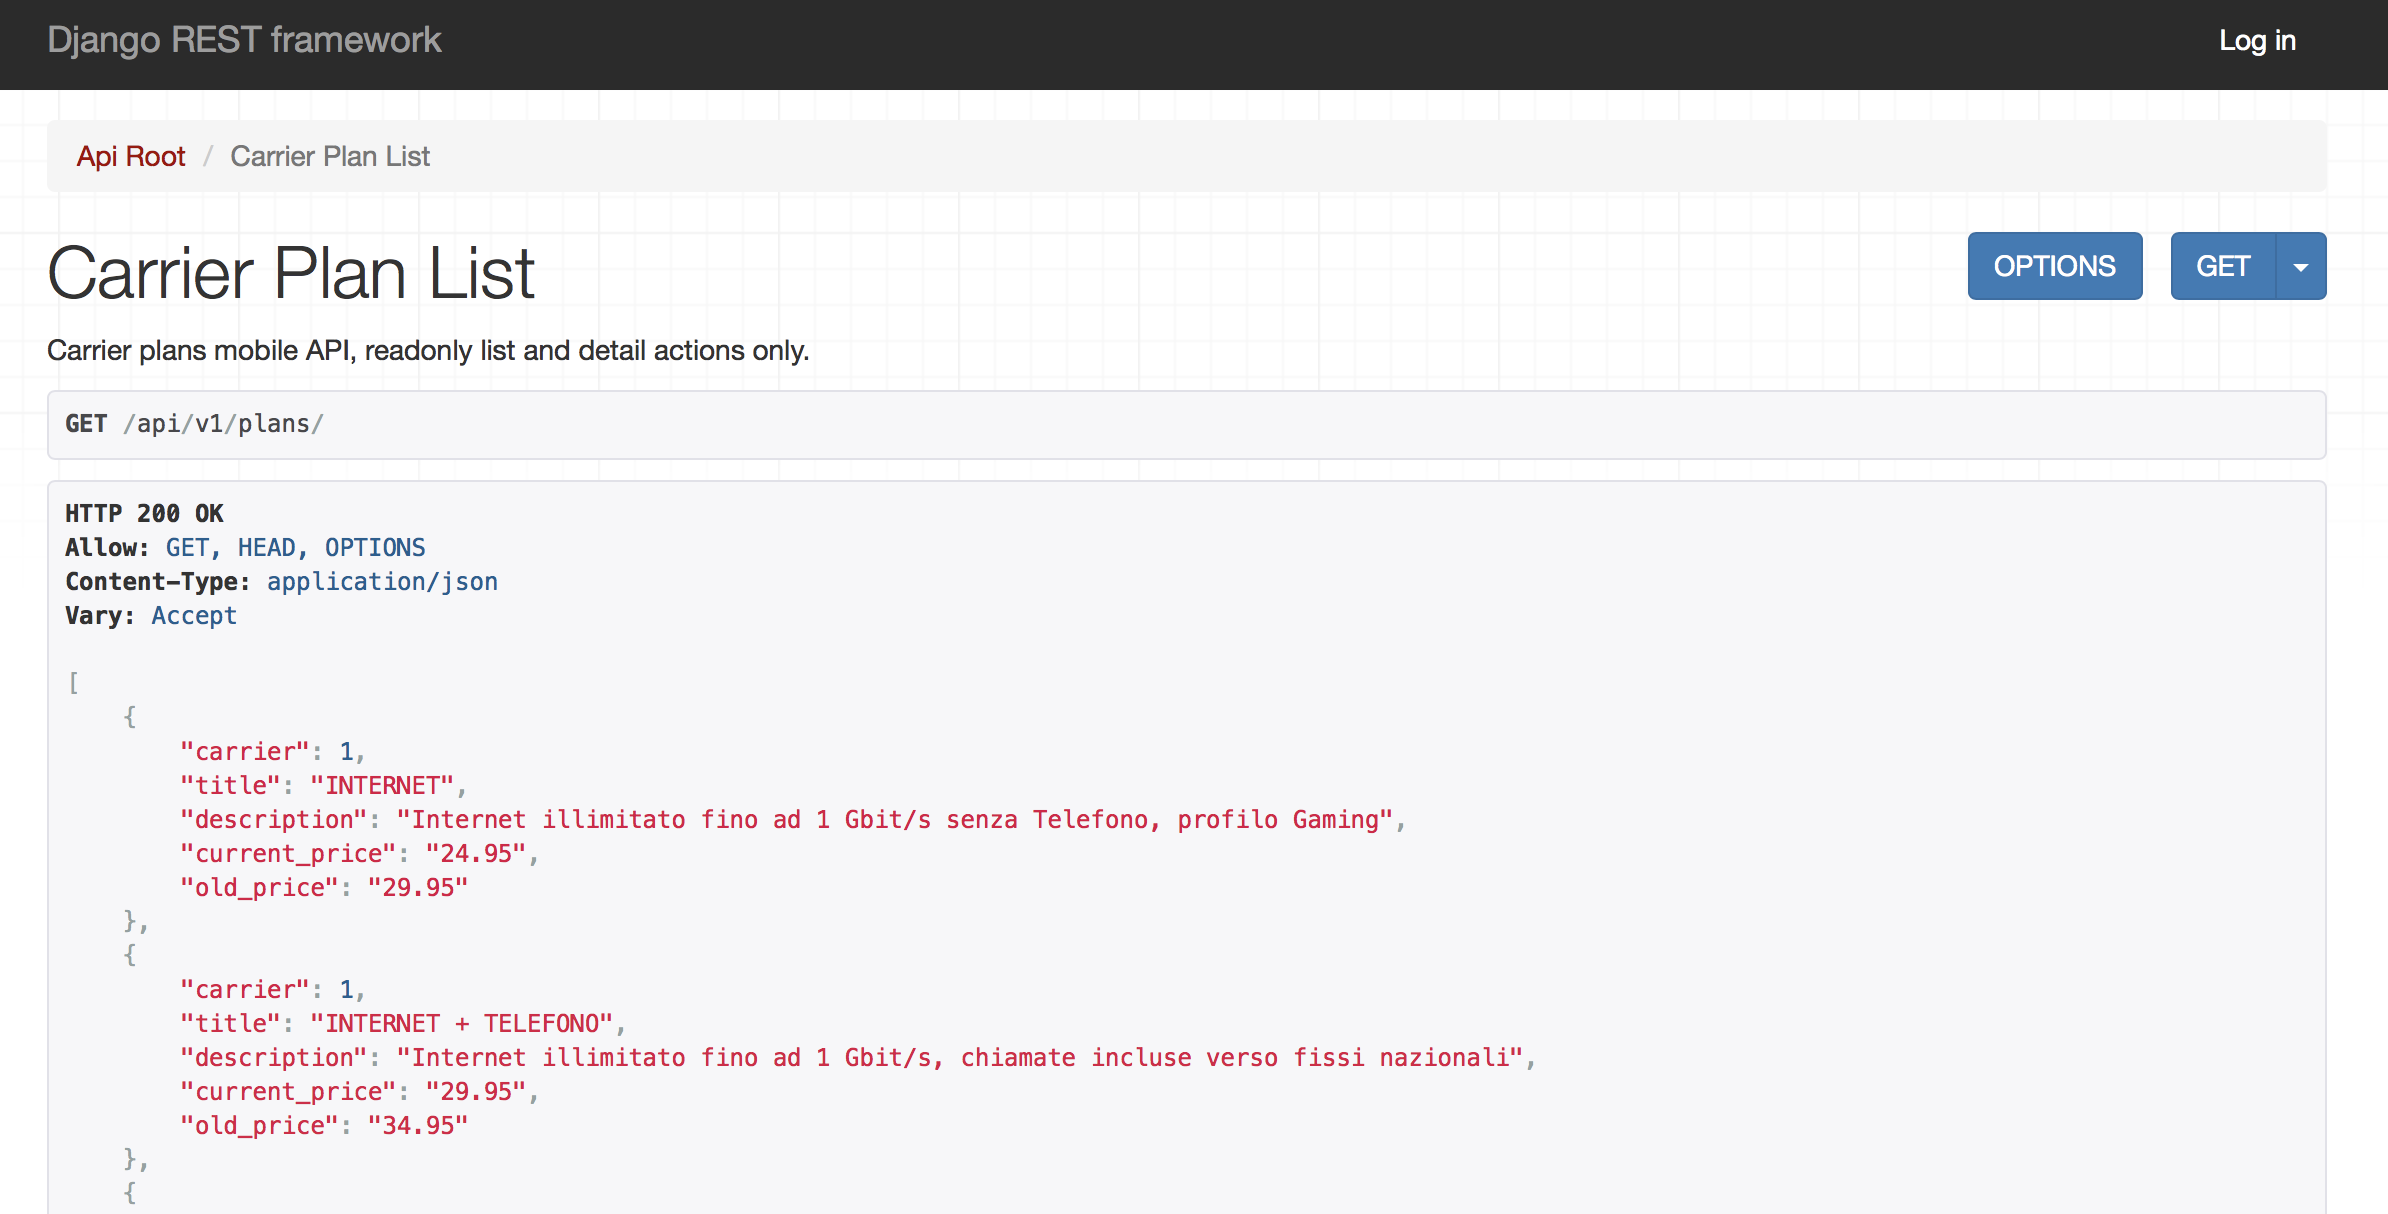
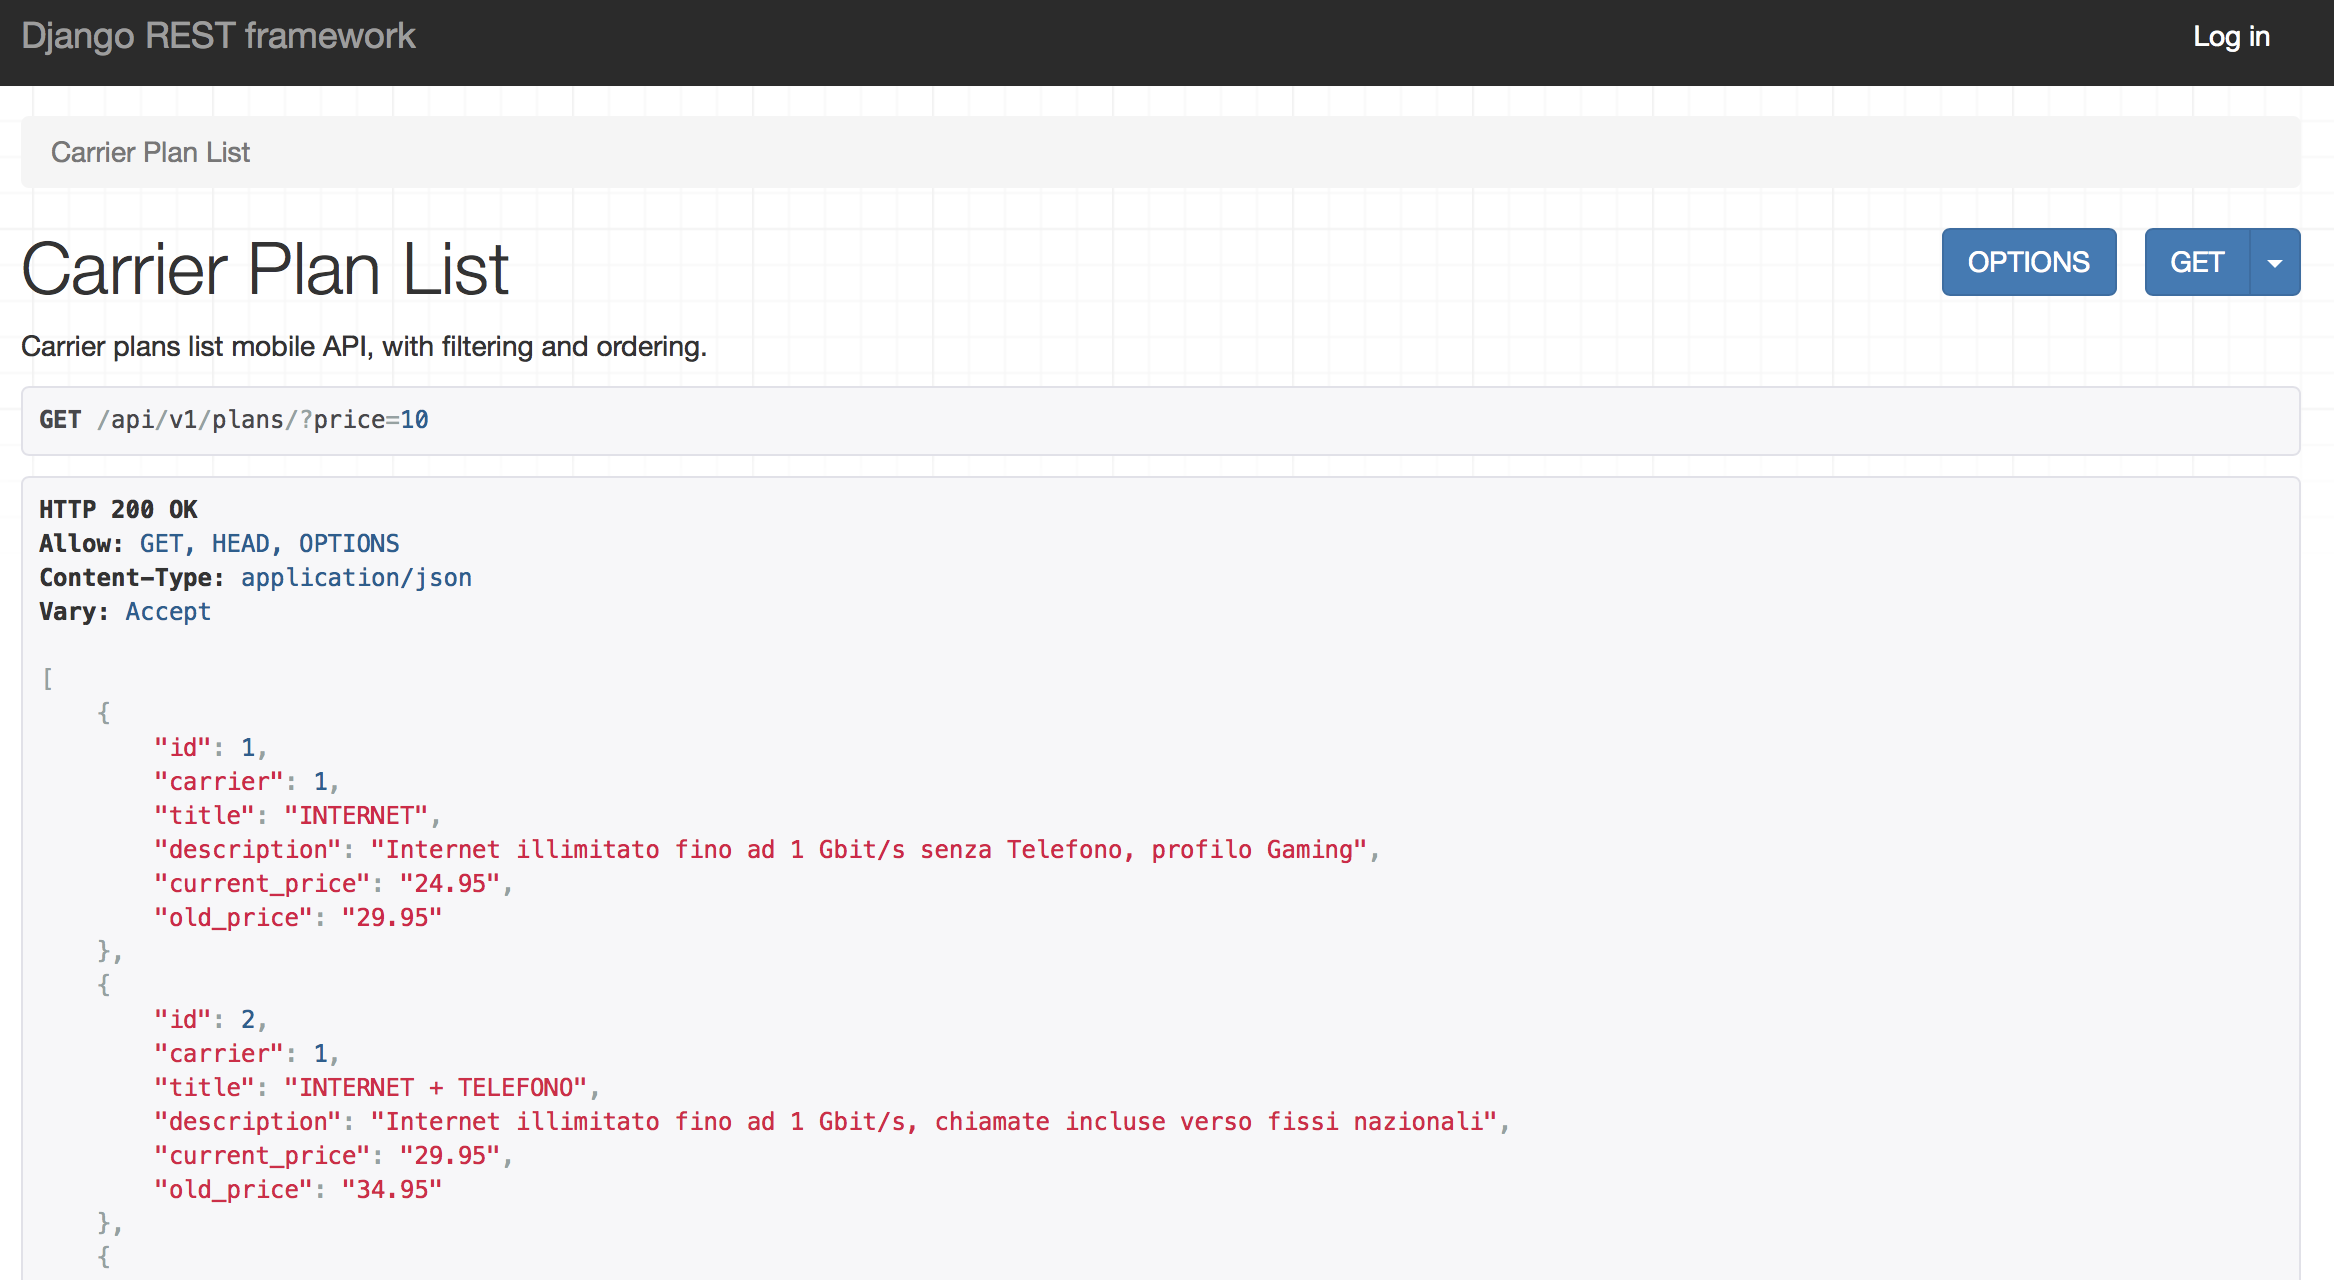
chore(api) include id

diff --git a/walletsaver/plans/api/serializers.py b/walletsaver/plans/api/serializers.py
@@ -6,4 +6,4 @@ from plans.models import CarrierPlan
 class CarrierPlanSerializer(serializers.ModelSerializer):
     class Meta:
         model = CarrierPlan
-        fields = ('carrier', 'title', 'description', 'current_price', 'old_price')
+        fields = ('id', 'carrier', 'title', 'description', 'current_price', 'old_price')
